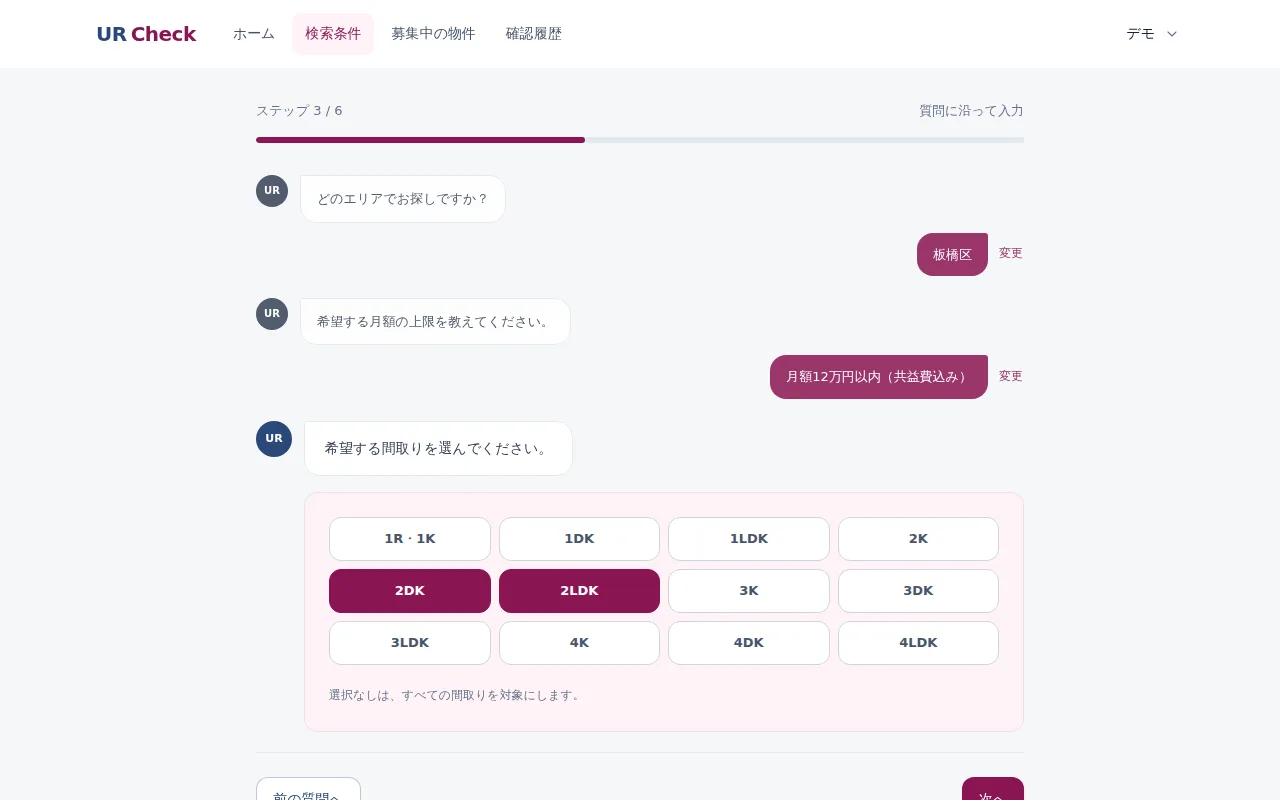
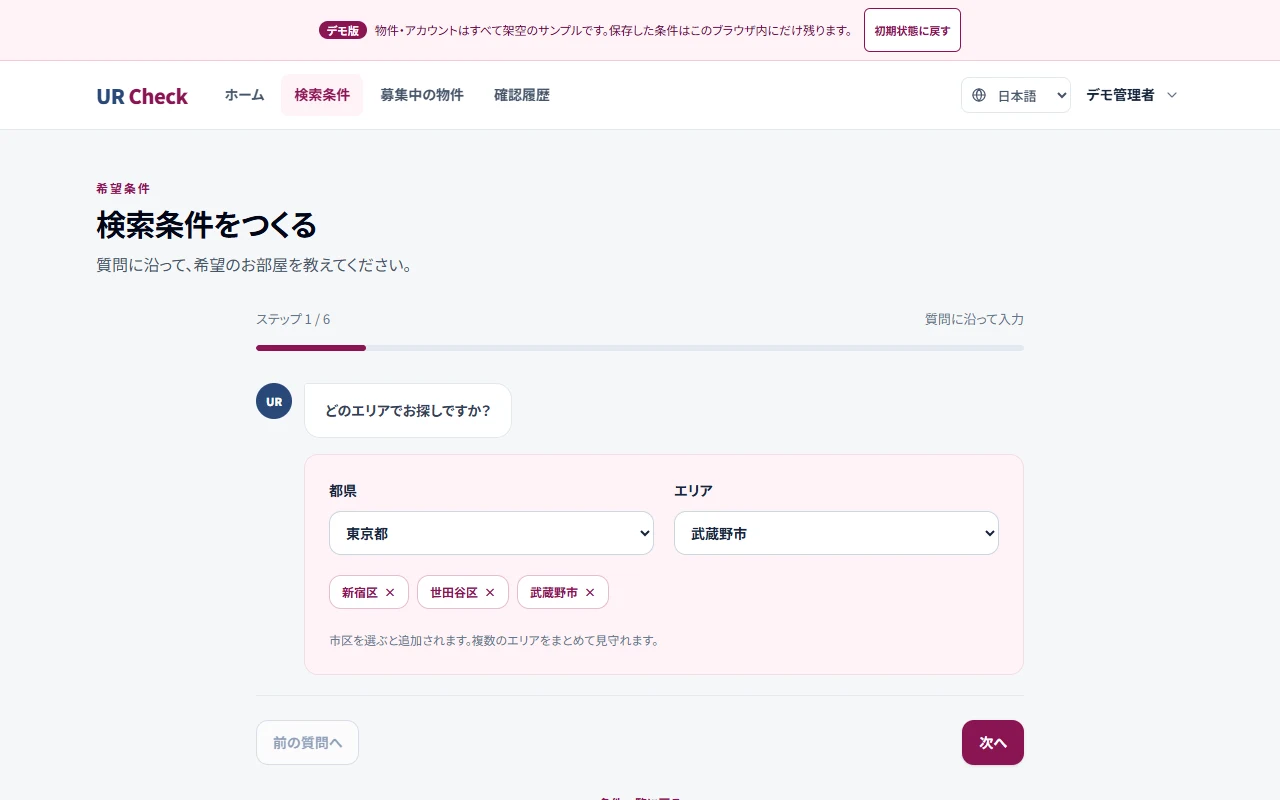
Quant Lab·UR Check 스크린샷 재촬영과 구성도 이미지 내보내기 (#25)
두 앱의 바뀐 UI를 라이브 데모에서 같은 구성으로 다시 찍었다(Quant Lab
한국어, UR Check 일본어). 바뀐 화면의 alt를 세 언어로 고쳤다.
pnpm diagrams로 6개 구성도를 docs/architecture에 SVG와 2x PNG로 내보낸다.

diff --git a/scripts/export-diagrams.ts b/scripts/export-diagrams.ts
@@ -1,0 +1,71 @@
+// Writes each project's architecture diagram to docs/architecture as a standalone SVG and a
+// 2x PNG, in the light colors of the project page. Run with `pnpm diagrams`.
+import { mkdir, readFile, writeFile } from 'node:fs/promises'
+import { resolve } from 'node:path'
+import { Resvg } from '@resvg/resvg-js'
+import { DIAGRAM_TEXT, layoutDiagram } from '../app/lib/diagram'
+import { getProject, getSlugs } from '../app/lib/projects'
+import type { Diagram } from '../app/lib/types'
+
+// The same palette as ProjectDiagram.vue (light).
+const color = {
+  background: '#fdfdfb',
+  group: { fill: '#faf7f1', stroke: '#ebe3d6', title: '#71675e' },
+  main: { fill: '#edf5ee', stroke: '#c8d8cb', title: '#344c3b', note: '#5e6f5c' },
+  accent: { fill: '#fbf4e6', stroke: '#ddcfb4', title: '#6f5a39', note: '#806a47' },
+  outside: { fill: '#f3ece1', stroke: '#e0d6c6', title: '#231d18', note: '#6b6158' },
+  solid: { line: '#8c9c90', fill: '#f5f9f5', stroke: '#d8e4d9', text: '#4c6050' },
+  dashed: { line: '#b49b72', fill: '#fbf7ef', stroke: '#e5d9c4', text: '#7d6643' },
+}
+const xml = (text: string) => text.replace(/[<>&"]/g, (c) => ({ '<': '&lt;', '>': '&gt;', '&': '&amp;', '"': '&quot;' })[c]!)
+
+function svg(name: string, d: Diagram) {
+  const { boxes, edges } = layoutDiagram(d)
+  // Separate start and end heads: resvg doesn't support orient="auto-start-reverse".
+  const marker = (id: string, stroke: string) =>
+    [['', 'M1 1 L7 4 L1 7', 7], ['-start', 'M7 1 L1 4 L7 7', 1]].map(([suffix, d, refX]) =>
+      `<marker id="${id}${suffix}" viewBox="0 0 8 8" refX="${refX}" refY="4" markerWidth="7" markerHeight="7" orient="auto" overflow="visible"><path d="${d}" fill="none" stroke="${stroke}" stroke-width="1.3" stroke-linecap="round" stroke-linejoin="round"/></marker>`).join('')
+  const groups = (d.groups ?? []).map((g) =>
+    `<rect x="${g.x}" y="${g.y}" width="${g.w}" height="${g.h}" rx="18" fill="${color.group.fill}" stroke="${color.group.stroke}" stroke-dasharray="5 5"/><text x="${g.x + 14}" y="${g.y + 20}" font-size="12" fill="${color.group.title}">${xml(g.title)}</text>`)
+  const lines = edges.map((e) => {
+    const kind = e.dashed ? 'dashed' : 'solid'
+    return `<path d="${e.d}" fill="none" stroke="${color[kind].line}" stroke-width="1.5" stroke-linecap="round" stroke-linejoin="round"${e.dashed ? ' stroke-dasharray="4 5"' : ''} marker-end="url(#${kind})"${e.both ? ` marker-start="url(#${kind}-start)"` : ''}/>`
+  })
+  const nodes = boxes.map((b) => {
+    const c = color[b.tone ?? 'main']
+    return [
+      `<rect x="${b.x0}" y="${b.y0}" width="${b.w}" height="${b.h}" rx="16" fill="${c.fill}" stroke="${c.stroke}"/>`,
+      `<text x="${b.x}" y="${b.note ? b.y - 5 : b.y + 5}" font-size="${DIAGRAM_TEXT.title}" font-weight="600" fill="${c.title}">${xml(b.title)}</text>`,
+      b.note ? `<text x="${b.x}" y="${b.y + 16}" font-size="${DIAGRAM_TEXT.note}" fill="${c.note}">${xml(b.note)}</text>` : '',
+    ].join('')
+  })
+  const labels = edges.flatMap((e) => {
+    if (!e.label) return []
+    const c = color[e.dashed ? 'dashed' : 'solid']
+    return [`<rect x="${e.label.x - e.label.w / 2}" y="${e.label.y - 11}" width="${e.label.w}" height="22" rx="11" fill="${c.fill}" stroke="${c.stroke}"/><text x="${e.label.x}" y="${e.label.y + 4}" font-size="${DIAGRAM_TEXT.label}" fill="${c.text}">${xml(e.label.text)}</text>`]
+  })
+  return `<svg xmlns="http://www.w3.org/2000/svg" width="${d.width}" height="${d.height}" viewBox="0 0 ${d.width} ${d.height}" role="img" aria-labelledby="title desc">
+  <title id="title">${xml(name)} — Architecture</title>
+  <desc id="desc">${xml(d.summary)}</desc>
+  <defs>${marker('solid', color.solid.line)}${marker('dashed', color.dashed.line)}</defs>
+  <rect width="${d.width}" height="${d.height}" rx="20" fill="${color.background}"/>
+  <g font-family="Geist, Arial, Helvetica, sans-serif">${groups.join('')}${lines.join('')}<g text-anchor="middle">${nodes.join('')}${labels.join('')}</g></g>
+</svg>
+`
+}
+
+const out = resolve('docs/architecture')
+await mkdir(out, { recursive: true })
+const fontFiles = ['Geist-Regular.ttf', 'Geist-SemiBold.ttf'].map((name) => resolve('assets/og-fonts', name))
+await Promise.all(fontFiles.map((file) => readFile(file)))
+let count = 0
+for (const slug of getSlugs()) {
+  const project = getProject(slug, 'en')!
+  if (!project.architecture) continue
+  const text = svg(project.name, project.architecture)
+  await writeFile(resolve(out, `${slug}.svg`), text)
+  const png = new Resvg(text, { fitTo: { mode: 'zoom', value: 2 }, font: { fontFiles, loadSystemFonts: false, defaultFontFamily: 'Geist' } }).render().asPng()
+  await writeFile(resolve(out, `${slug}.png`), png)
+  count++
+}
+console.log(`Wrote ${count} diagrams to docs/architecture (SVG and 2x PNG).`)

diff --git a/app/content/projects/quant-lab/ja.ts b/app/content/projects/quant-lab/ja.ts
@@ -57,11 +57,11 @@ export const ja: ProjectCopy = {
   ],
   footnote: "投資助言ではありません。自分の口座で小規模に取引しています。スクリーンショットはデモの合成データで、デモの注文はすべてシミュレーションです。AIボットの判断理由は参考用で、事実と異なる場合があります。",
   alts: {
-    main: "Quant Labのホーム。自分コピーボットと毎月ただ買う場合の比較、次の給料日に買うもの",
+    main: "Quant Labのホーム。自分コピーボットと毎月ただ買う場合の比較、今日の判断、横に並ぶ3つのボット",
     inset: "スマホで見たQuant Labのホーム",
     gallery: [
-      "習慣のコピー。「高くなったと思うときはどうしますか？」と4つの選択肢",
-      "デモのAIボット。今日の判断（現在→目標の配分と理由）と自分コピーボットとの比較。デモの判断は本物のAIではなくルールで作った例",
+      "習慣のコピー、6問中3問目。毎月投資する金額と、選べる金額",
+      "デモの市場分析AIボット。今日の判断とその理由、銘柄ごとの目標配分。デモの判断は本物のAIではなくルールで作った例",
       "パラレルワールドの自分。同じ金額でルールを1つずつ変えた自分たち",
       "過去の価格で自分コピーのルールを試す画面。毎月の金額、見送り・まとめ買いの基準、銘柄",
     ],

diff --git a/app/content/projects/quant-lab/ko.ts b/app/content/projects/quant-lab/ko.ts
@@ -57,11 +57,11 @@ export const ko: ProjectCopy = {
   ],
   footnote: "투자 조언이 아닙니다. 제 계좌에서 소규모로 거래하고 있으며, 스크린샷은 데모의 합성 데이터이고 데모의 주문은 모두 모의 체결입니다. AI 봇의 판단 이유는 참고용이며 사실과 다를 수 있습니다.",
   alts: {
-    main: "Quant Lab 홈. 나 카피 봇과 매달 그냥 샀을 때의 비교, 다음 월급날 살 것",
+    main: "Quant Lab 홈. 나 카피 봇과 매달 그냥 샀을 때의 비교, 오늘의 판단, 옆에 놓인 봇 세 개",
     inset: "휴대폰에서 본 Quant Lab 홈",
     gallery: [
-      "습관 복사하기. “많이 오른 것 같을 때는 어떻게 하나요?”와 선택지 4개",
-      "데모의 AI 봇. 오늘의 판단(지금 → 목표 비중과 이유)과 나 카피 봇과의 비교. 데모 판단은 실제 AI가 아니라 규칙으로 만든 예시",
+      "습관 복사하기 3/6 질문. 한 달에 투자하는 금액과 고를 수 있는 금액들",
+      "데모의 시장분석 AI 봇. 오늘의 판단과 이유, 종목별 목표 비중. 데모 판단은 실제 AI가 아니라 규칙으로 만든 예시",
       "평행세계의 나. 같은 금액으로 규칙을 하나씩 바꾼 나들",
       "과거 가격으로 나 카피 규칙을 시험해 보는 화면. 매달 넣는 돈, 쉬기·몰아 사기 기준, 종목",
     ],

diff --git a/app/content/projects/quant-lab/index.ts b/app/content/projects/quant-lab/index.ts
@@ -32,7 +32,7 @@ export const quantLab: Project = {
   },
 
   cover: {
-    main: { src: home, alt: "Quant Lab home: the copy-me bot next to just buying every month, and the next payday's buys" },
+    main: { src: home, alt: "Quant Lab home: the copy-me bot next to just buying every month, today's decision, and the three bots on the side" },
     inset: { src: mobile, alt: "Quant Lab home on a phone", frame: "phone" },
     tint: ["#e7ecf6", "#c6d1e6"],
   },
@@ -74,8 +74,8 @@ export const quantLab: Project = {
     },
   ],
   gallery: [
-    { src: question, alt: "Copying a habit: “When prices look high, what do you do?” with four choices" },
-    { src: ai, alt: "The AI bot in the demo: today's decision, from current to target weight with reasons, and the AI bot next to the copy-me bot. Demo decisions are made by rules, not a real AI" },
+    { src: question, alt: "Copying a habit, question 3 of 6: how much goes in each month, with amounts to pick" },
+    { src: ai, alt: "The market-analysis AI bot in the demo: today's decision with its reasons and a target weight for each fund. Demo decisions are made by rules, not a real AI" },
     { src: parallel, alt: "Parallel yous: the same money with one rule changed each time" },
     { src: backtest, alt: "Trying the copy-me rule on past prices: the monthly amount, when to skip or buy big, and which funds" },
   ],

diff --git a/app/content/projects/ur-check/ja.ts b/app/content/projects/ur-check/ja.ts
@@ -38,8 +38,8 @@ export const ja: ProjectCopy = {
     main: "UR Checkのホーム画面。見出しのバナーと、保存した条件・募集中の部屋・最近の変化の件数",
     inset: "同じ画面をスマートフォンで表示した様子",
     gallery: [
-      "質問に答えて条件を作る画面。エリア、月額に続いて間取りのチップを選ぶ",
-      "条件に合う募集中の部屋のカード。月額、間取り、広さ、駅徒歩を表示",
+      "質問に沿って条件を作る画面。6ステップ中の1つ目でエリアを聞かれ、区・市を3つ選んだところ",
+      "条件に合う募集中の部屋のカード。間取り図と月額の家賃を表示",
       "確認履歴の画面。新着・再募集・募集終了の部屋と、それぞれが合う条件",
       "AIアプリを追加する管理画面。接続できるAIアプリの選択肢とコールバックURL",
     ],

diff --git a/app/content/projects/ur-check/ko.ts b/app/content/projects/ur-check/ko.ts
@@ -38,8 +38,8 @@ export const ko: ProjectCopy = {
     main: "UR Check 홈 화면. 상단 배너와 저장한 조건·모집 중인 방·최근 변화의 건수",
     inset: "같은 화면을 휴대폰에서 본 모습",
     gallery: [
-      "질문에 답해 조건을 만드는 화면. 지역, 월 비용에 이어 방 구조 칩을 고른다",
-      "조건에 맞는 모집 중인 방 카드. 월 비용, 방 구조, 면적, 역 도보 시간을 보여 준다",
+      "질문에 따라 조건을 만드는 화면. 6단계 중 1단계에서 지역을 묻고, 구·시 세 곳을 골랐다",
+      "조건에 맞는 모집 중인 방 카드. 평면도와 월 임대료를 보여 준다",
       "확인 이력 화면. 새로 나온 방·다시 나온 방·사라진 방과 각각 맞는 조건",
       "AI 앱을 추가하는 관리자 화면. 연결할 수 있는 AI 앱 선택지와 콜백 URL",
     ],

diff --git a/app/content/projects/ur-check/index.ts b/app/content/projects/ur-check/index.ts
@@ -71,8 +71,8 @@ export const urCheck: Project = {
     },
   ],
   gallery: [
-    { src: wizard, alt: "Creating a condition by answering questions: area, monthly cost, then layout chips" },
-    { src: rooms, alt: "Open rooms that match the conditions, as cards with monthly cost, layout, size and walk to a station" },
+    { src: wizard, alt: "Creating a condition step by step: step 1 of 6 asks for the area, with three wards and cities picked" },
+    { src: rooms, alt: "Open rooms that match the conditions, as cards with a floor plan and the monthly rent" },
     { src: history, alt: "Change history: rooms that are new, relisted or gone, with the condition each one matches" },
     { src: apps, alt: "Admin screen for adding an AI app, with the AI app choices and their callback URLs" },
   ],

diff --git a/docs/VALIDATION.md b/docs/VALIDATION.md
@@ -2,6 +2,13 @@
 
 기준일: 2026-10-22 (Asia/Seoul)
 
+## Quant Lab·UR Check 스크린샷 재촬영과 구성도 내보내기 (2026-10-22)
+
+- 두 앱의 UI가 바뀌어 라이브 데모(`demo.trading-lab.me`, `demo.ur-check.com`)에서 같은 구성의 화면을 headless Chrome(DevTools 프로토콜)으로 다시 찍었다. 데스크톱은 1280×800 1x, 휴대폰은 390×844 2x(780×1688), 라이트 테마다. Quant Lab은 기존처럼 한국어, UR Check은 사용자 요청대로 일본어 화면이다. WebP 품질 88로 저장했고 크기는 기존과 같다.
+- 화면이 바뀐 이미지의 alt만 세 언어로 고쳤다(Quant Lab 홈·질문·AI 봇, UR Check 조건 만들기·모집 중 물건). `docs/baseline.json`은 홈·목록·두 상세의 alt만 바뀌었다.
+- `pnpm diagrams`(`scripts/export-diagrams.ts`)를 추가해 6개 구성도를 `docs/architecture/<slug>.svg`와 2x PNG로 내보냈다(Geist 글꼴, 페이지의 라이트 색). resvg가 `orient="auto-start-reverse"`를 지원하지 않아 내보내기에서는 시작·끝 화살촉을 따로 정의했다. 같은 파일을 사용자 다운로드 폴더(`Downloads/portfolio-architecture`)에도 복사했다.
+- 로컬 Node 26.7.0에서 `pnpm check`, `pnpm generate`(33개 페이지, 381개 자산 검증), `pnpm test:pages`가 통과했다.
+
 ## 프로젝트 구성도 추가 (2026-10-22)
 
 - 사용자 요청에 따라 GitLeaf·Pokepedia·Henry Wallet·Quant Lab·UR Check·Puny Chat 상세 페이지에 구성도 섹션(Architecture · 構成図 · 구성도)을 기술 구성 위에 추가했다. 각 저장소 README의 다이어그램(GitLeaf `docs/architecture.svg`, 나머지는 mermaid)을 바탕으로 하되, GitLeaf SVG의 모양(둥근 상자, 알약 라벨, 실선·점선 화살표, 세이지·샌드 색)으로 다시 배치했다. Pokepedia에는 Unity 배틀(별도 저장소)을 더했다.
